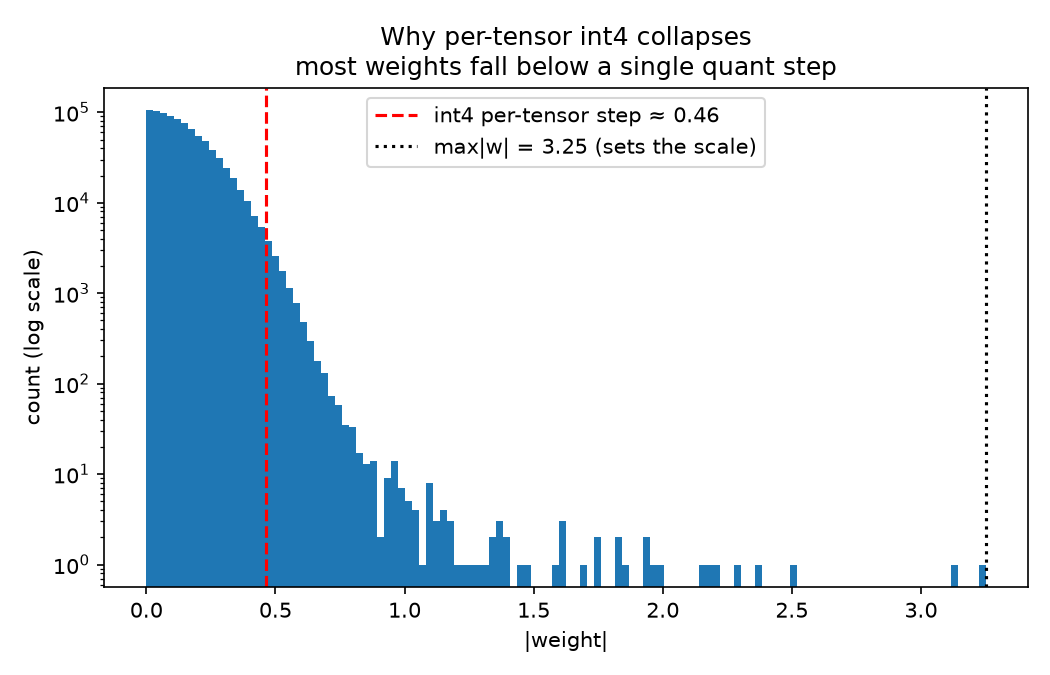
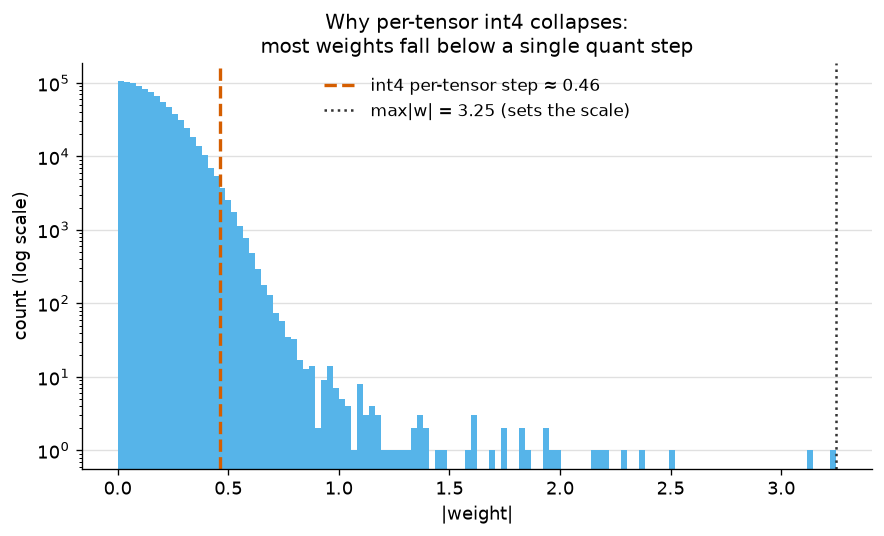
T1: production hardening + gold-standard plots + unit tests
Addresses code-review findings and upgrades the artefact to a production bar:
- quantise.py: validate n_bits in [2,8] (int8-storage bound) and group_size >= 1;
  fix docstring/comment typos.
- metrics.py: guard sqnr_db against a zero-signal reference (-inf, no RuntimeWarning).
- probe.py: run_sweep returns (results, weight) so the plotter reuses the load.
- plot.py: Okabe-Ito colourblind-safe palette; two-panel SQNR + cosine vs bit-width
  (the two standard, independent fidelity axes); recessive axes/grid.
- test_t01.py: 8 real unit tests (hand-computed codes, roundtrip, per-channel-beats-
  per-tensor-on-outlier, input-validation, metric invariants); pytest scans topics/.

diff --git a/topics/t01_number_representation/plot.py b/topics/t01_number_representation/plot.py
@@ -1,11 +1,15 @@
 """Plots for the quantisation study — writes two PNGs into results/.
 
-- quality_vs_bits.png : output SQNR vs bit-width, one line per granularity. The degradation
-  curve and the granularity gap, at a glance.
-- weight_outliers.png : the |weight| distribution with the int4 per-tensor step marked — shows
-  *why* per-tensor collapses (most weights fall below a single quantisation step).
+Uses the Okabe-Ito colourblind-safe categorical palette (assigned to granularities in a fixed
+order, never cycled), recessive axes/grid, and direct legends, so the figures read as designed
+rather than default-matplotlib.
 
-  uv run python topics/t01_number_representation/plot.py
+  - quality_vs_bits.png : two panels — output SQNR (dB) and output cosine — vs bit-width, one line
+    per granularity. The standard quant-fidelity view of how granularity x bit-width drives impact.
+  - weight_outliers.png : the |weight| distribution with the int4 per-tensor step marked — the
+    mechanism behind the per-tensor collapse.
+
+    uv run python topics/t01_number_representation/plot.py
 """
 
 from __future__ import annotations
@@ -15,60 +19,98 @@ from pathlib import Path
 import matplotlib.pyplot as plt
 import numpy as np
 import numpy.typing as npt
-from load_weights import load_linear_weight
+from matplotlib.axes import Axes
 from probe import GRANULARITIES, Result, run_sweep
 
 RESULTS_DIR = Path(__file__).parent / "results"
 
+# Okabe-Ito colourblind-safe palette, assigned to granularities in fixed order (never cycled).
+GRAN_COLOR: dict[str, str] = {
+    "per_tensor": "#D55E00",  # vermillion
+    "per_channel": "#0072B2",  # blue
+    "per_group": "#009E73",  # bluish green
+}
+
+plt.rcParams.update(
+    {
+        "figure.dpi": 120,
+        "font.size": 11,
+        "axes.titlesize": 12,
+        "axes.labelsize": 11,
+        "legend.fontsize": 10,
+        "axes.spines.top": False,
+        "axes.spines.right": False,
+    }
+)
+
+
+def _style(ax: Axes) -> None:
+    ax.grid(True, color="0.88", linewidth=0.8)
+    ax.set_axisbelow(True)
+    ax.invert_xaxis()  # 8 bits (left) -> 2 bits (right): more compression rightward
+    ax.set_xlabel("bit-width")
+
 
 def plot_quality_vs_bits(results: list[Result]) -> Path:
-    """Line chart: output SQNR (dB) vs bit-width, one line per granularity."""
-    fig, ax = plt.subplots(figsize=(7, 4.5))
+    """Two panels — output SQNR (dB) and output cosine — vs bit-width, one line per granularity."""
+    fig, (ax_sqnr, ax_cos) = plt.subplots(1, 2, figsize=(11, 4.6))
     for gran in GRANULARITIES:
         rows = sorted((r for r in results if r.granularity == gran), key=lambda r: r.n_bits)
-        ax.plot([r.n_bits for r in rows], [r.out_sqnr for r in rows], marker="o", label=gran)
-    ax.set_xlabel("bit-width")
-    ax.set_ylabel("output SQNR (dB) — higher is better")
-    ax.set_title("Quantisation quality vs bit-width\nSmolLM2-135M gate_proj weight")
-    ax.legend(title="granularity")
-    ax.grid(True, alpha=0.3)
+        bits = [r.n_bits for r in rows]
+        color = GRAN_COLOR[gran]
+        ax_sqnr.plot(
+            bits, [r.out_sqnr for r in rows], marker="o", ms=6, lw=2, color=color, label=gran
+        )
+        ax_cos.plot(
+            bits, [r.out_cos for r in rows], marker="o", ms=6, lw=2, color=color, label=gran
+        )
+    ax_sqnr.set_ylabel("output SQNR (dB) — higher is better")
+    ax_cos.set_ylabel("output cosine similarity — higher is better")
+    ax_cos.set_ylim(0, 1.02)
+    for ax in (ax_sqnr, ax_cos):
+        _style(ax)
+    ax_sqnr.legend(title="granularity", frameon=False)
+    fig.suptitle(
+        "Quantisation impact vs bit-width & granularity\nSmolLM2-135M gate_proj weight", fontsize=13
+    )
     fig.tight_layout()
     path = RESULTS_DIR / "quality_vs_bits.png"
-    fig.savefig(path, dpi=150)
+    fig.savefig(path, bbox_inches="tight")
     plt.close(fig)
     return path
 
 
 def plot_weight_outliers(w: npt.NDArray[np.float32]) -> Path:
-    """Histogram of |weight|, with the int4 per-tensor step and the max marked."""
+    """Histogram of |weight| with the int4 per-tensor step and the max marked."""
     absw = np.abs(w).reshape(-1)
     max_abs = float(absw.max())
     int4_step = max_abs / (2 ** (4 - 1) - 1)  # per-tensor int4 step = max / 7
 
-    fig, ax = plt.subplots(figsize=(7, 4.5))
-    ax.hist(absw, bins=120)
+    fig, ax = plt.subplots(figsize=(7.5, 4.6))
+    ax.hist(absw, bins=120, color="#56B4E9", edgecolor="none")
     ax.set_yscale("log")
     ax.axvline(
-        int4_step, color="red", linestyle="--", label=f"int4 per-tensor step ≈ {int4_step:.2f}"
+        int4_step, color="#D55E00", lw=2, ls="--", label=f"int4 per-tensor step ≈ {int4_step:.2f}"
     )
     ax.axvline(
-        max_abs, color="black", linestyle=":", label=f"max|w| = {max_abs:.2f} (sets the scale)"
+        max_abs, color="0.2", lw=1.5, ls=":", label=f"max|w| = {max_abs:.2f} (sets the scale)"
     )
     ax.set_xlabel("|weight|")
     ax.set_ylabel("count (log scale)")
-    ax.set_title("Why per-tensor int4 collapses\nmost weights fall below a single quant step")
-    ax.legend()
+    ax.set_title("Why per-tensor int4 collapses:\nmost weights fall below a single quant step")
+    ax.grid(True, axis="y", color="0.88", linewidth=0.8)
+    ax.set_axisbelow(True)
+    ax.legend(frameon=False)
     fig.tight_layout()
     path = RESULTS_DIR / "weight_outliers.png"
-    fig.savefig(path, dpi=150)
+    fig.savefig(path, bbox_inches="tight")
     plt.close(fig)
     return path
 
 
 def main() -> None:
     RESULTS_DIR.mkdir(exist_ok=True)
-    results = run_sweep()
-    w = load_linear_weight()
+    results, w = run_sweep()
     p1 = plot_quality_vs_bits(results)
     p2 = plot_weight_outliers(w)
     print(f"\nwrote {p1}")

diff --git a/topics/t01_number_representation/test_t01.py b/topics/t01_number_representation/test_t01.py
@@ -1,0 +1,63 @@
+"""Unit tests for the T1 quantiser and metrics.
+
+These assert the behaviour the `_selftest` demos only printed — so a regression fails CI instead
+of a human having to eyeball the numbers.
+"""
+
+from __future__ import annotations
+
+import numpy as np
+import pytest
+from metrics import cosine_similarity, relative_error, sqnr_db
+from quantise import dequantise, quantise_symmetric
+
+
+def test_quantise_hand_computed() -> None:
+    # max|w| = 0.8, int8 symmetric -> scale = 0.8/127; the by-hand integer codes.
+    w = np.array([[0.5, -0.8, 0.02, 0.0]], dtype=np.float32)
+    q, scale = quantise_symmetric(w, n_bits=8, granularity="per_tensor")
+    assert q.tolist() == [[79, -127, 3, 0]]
+    assert float(scale) == pytest.approx(0.8 / 127, rel=1e-4)
+
+
+def test_dequantise_roundtrip_close() -> None:
+    w = np.array([[0.5, -0.8, 0.02, 0.0]], dtype=np.float32)
+    w_hat = dequantise(*quantise_symmetric(w, n_bits=8, granularity="per_tensor"))
+    assert float(np.max(np.abs(w - w_hat))) < 0.01
+
+
+def test_per_channel_beats_per_tensor_on_outlier() -> None:
+    rng = np.random.default_rng(0)
+    w = (rng.standard_normal((8, 32)) * 0.1).astype(np.float32)
+    w[0] *= 50.0  # one outlier channel would dominate a single per-tensor scale
+    wt = dequantise(*quantise_symmetric(w, 4, "per_tensor"))
+    wc = dequantise(*quantise_symmetric(w, 4, "per_channel"))
+    assert sqnr_db(w, wc) > sqnr_db(w, wt)
+
+
+def test_n_bits_out_of_range_raises() -> None:
+    w = np.zeros((4, 8), dtype=np.float32)
+    for bad in (1, 9, 16):
+        with pytest.raises(ValueError):
+            quantise_symmetric(w, bad, "per_tensor")
+
+
+def test_per_group_requires_valid_group_size() -> None:
+    w = np.zeros((4, 30), dtype=np.float32)
+    for bad in (0, 64):  # 0 invalid; 64 does not divide 30
+        with pytest.raises(ValueError):
+            quantise_symmetric(w, 8, "per_group", group_size=bad)
+
+
+def test_metrics_on_identical_inputs() -> None:
+    a = np.array([1.0, 2.0, 3.0], dtype=np.float32)
+    assert sqnr_db(a, a) == float("inf")
+    assert relative_error(a, a) == 0.0
+    assert cosine_similarity(a, a) == pytest.approx(1.0, abs=1e-4)
+
+
+def test_cosine_ignores_scale_but_relerr_does_not() -> None:
+    a = np.array([3.0, 4.0], dtype=np.float32)
+    b = a * 2.0  # same direction, double magnitude
+    assert cosine_similarity(a, b) == pytest.approx(1.0, abs=1e-5)
+    assert relative_error(a, b) == pytest.approx(1.0, abs=1e-4)  # 100% error

diff --git a/topics/t01_number_representation/quantise.py b/topics/t01_number_representation/quantise.py
@@ -30,7 +30,7 @@ def quantise_symmetric(
     Args:
         w: weight matrix, shape (out_features, in_features). Each row = one output channel.
         n_bits: bit-width of the integer grid (8 for int8)
-        granularity: how manhy scales to use"
+        granularity: how many scales to use:
             - "per_tensor": one scale for the whole matrix.
             - "per_channel": one scale per row(output channel)
             - "per_group": one scale per group of "group_size" within each row
@@ -40,7 +40,12 @@ def quantise_symmetric(
         (q, scale) where q = integer codes (same shape as w, int8) and scale is
         broadcastable to w's shape, so dequantise is just q * scale.
     """
-    #  Biggest integer the signed grid holds, eg int8 -> 2^7 -1 = 127.
+    # int8 storage requires 2 <= n_bits <= 8: below 2 the grid collapses (qmax 0 -> all zeros),
+    # above 8 the codes overflow int8 silently.
+    if not 2 <= n_bits <= 8:
+        raise ValueError(f"n_bits must be in [2, 8] for int8 storage, got {n_bits}")
+
+    #  Biggest integer the signed grid holds, e.g. int8 -> 2^7 - 1 = 127.
     qmax = 2 ** (n_bits - 1) - 1
 
     # ---1) find max|w| at requested granularity
@@ -52,18 +57,20 @@ def quantise_symmetric(
         max_abs = np.abs(w).max(axis=1, keepdims=True)
     elif granularity == "per_group":
         rows, cols = w.shape
-        if cols % group_size != 0:
-            raise ValueError(f"in_features {cols} not divisible by group_size {group_size}")
+        if group_size < 1 or cols % group_size != 0:
+            raise ValueError(
+                f"group_size must be >= 1 and divide in_features {cols}, got {group_size}"
+            )
         n_groups = cols // group_size
-        # Split each row into groups and take max|w| per group -> (rows,_groups), then
-        # repeat each group's value across its own columns -> back to (row, cols)
+        # Split each row into groups and take max|w| per group -> (rows, n_groups), then
+        # repeat each group's value across its own columns -> back to (rows, cols)
         grouped = np.abs(w).reshape(rows, n_groups, group_size).max(axis=2)
         max_abs = np.repeat(grouped, group_size, axis=1)
     else:
         raise ValueError(f"unknown granularity: {granularity!r}")
 
-    # scale = max|w| / qmax. Clamp max_abs off zero to avoid duvide by zero on an all zero
-    # tensor/row/group (real weights won't be, but production code guards it)
+    # scale = max|w| / qmax. Clamp max_abs off zero to avoid divide-by-zero on an all-zero
+    # tensor/row/group (real weights won't be, but production code guards it).
     scale = np.asarray(np.maximum(max_abs, 1e-8) / qmax, dtype=np.float32)
 
     # ---2) snap to nearest grid point, clamp into range, store as ints ---

diff --git a/topics/t01_number_representation/probe.py b/topics/t01_number_representation/probe.py
@@ -8,7 +8,7 @@ fidelity two ways:
   - output fidelity : SQNR, relative error, and cosine of the layer output W @ x vs W_hat @ x on
     a random input x — the error inference actually experiences (weight error is only a proxy).
 
-`run_sweep` returns the results as a list of `Result` so the plotter can reuse them.
+`run_sweep` returns (results, weight) so the plotter can reuse both without re-loading.
 
     uv run python topics/t01_number_representation/probe.py
 """
@@ -20,7 +20,7 @@ from dataclasses import dataclass
 
 import numpy as np
 from load_weights import load_linear_weight
-from metrics import cosine_similarity, relative_error, sqnr_db
+from metrics import FloatArray, cosine_similarity, relative_error, sqnr_db
 from quantise import Granularity, dequantise, quantise_symmetric
 
 BIT_WIDTHS = [8, 7, 6, 5, 4, 3, 2]
@@ -40,7 +40,7 @@ class Result:
     out_cos: float  # output direction
 
 
-def run_sweep() -> list[Result]:
+def run_sweep() -> tuple[list[Result], FloatArray]:
     w = load_linear_weight()  # real SmolLM2 gate_proj weight, float32
     in_features = w.shape[1]
 
@@ -77,7 +77,7 @@ def run_sweep() -> list[Result]:
             f"{r.n_bits:>6} {r.granularity:>12} {r.w_sqnr:>8.2f} "
             f"{r.out_sqnr:>9.2f} {r.out_relerr * 100:>9.2f} {r.out_cos:>9.5f}"
         )
-    return results
+    return results, w
 
 
 if __name__ == "__main__":

diff --git a/topics/t01_number_representation/metrics.py b/topics/t01_number_representation/metrics.py
@@ -35,6 +35,8 @@ def sqnr_db(reference: FloatArray, approx: FloatArray) -> float:
     noise_power = float(np.mean((reference - approx) ** 2))
     if noise_power == 0.0:
         return float("inf")  # perfect reconstruction — no noise
+    if signal_power == 0.0:
+        return float("-inf")  # no signal, only error
     return 10.0 * float(np.log10(signal_power / noise_power))
 
 